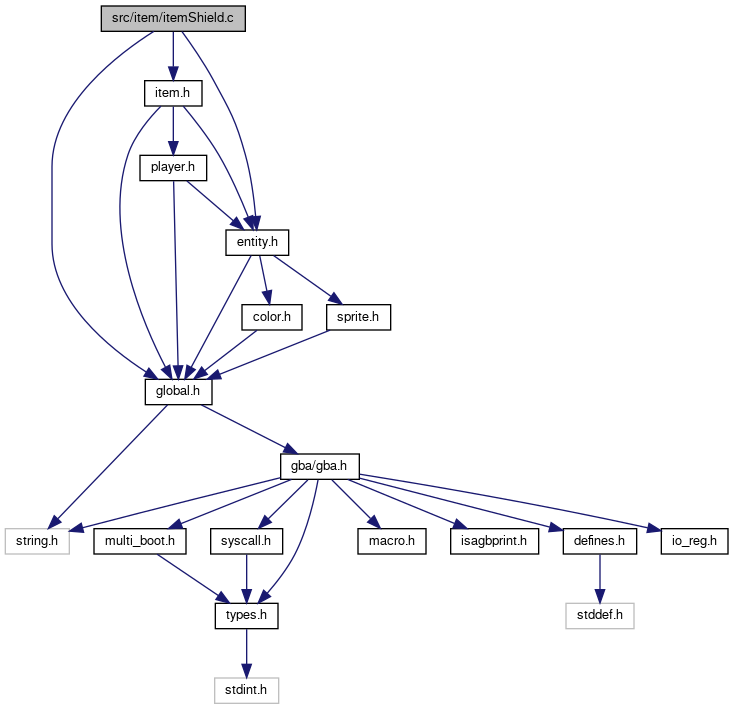
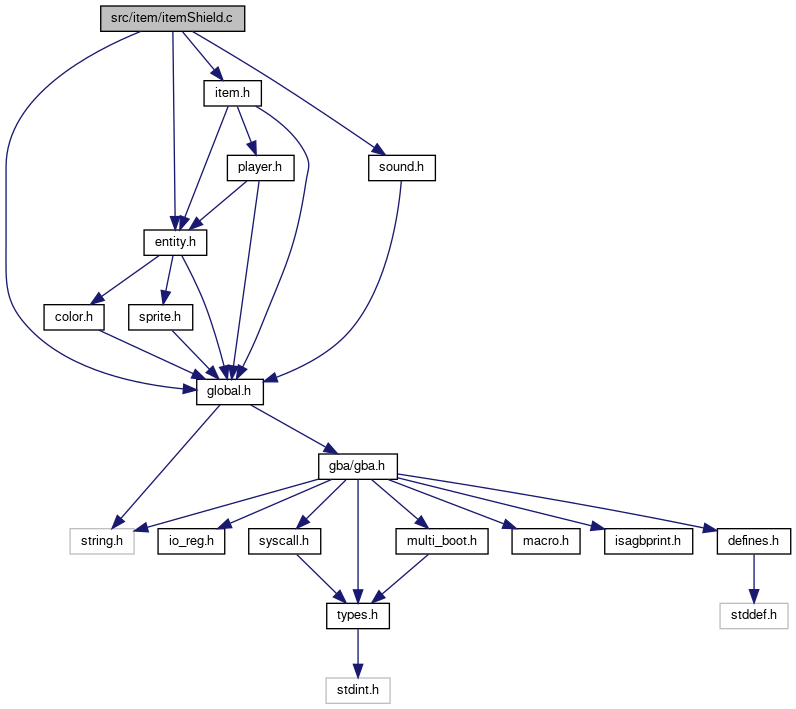
deploy: e394539e057b5704c1d08c0f4c07161096da6992

diff --git a/html/dir_000005_000000.html b/html/dir_000005_000000.html
@@ -74,7 +74,7 @@ $(function() {
 </div>
 </div><!-- top -->
 <div class="contents">
-<h3>item &rarr; include Relation</h3><table class="dirtab"><tr class="dirtab"><th class="dirtab">File in src/item</th><th class="dirtab">Includes file in include</th></tr><tr class="dirtab"><td class="dirtab"><a class="el" href="itemBomb_8c.html">itemBomb.c</a></td><td class="dirtab"><a class="el" href="coord_8h.html">coord.h</a></td></tr><tr class="dirtab"><td class="dirtab"><a class="el" href="itemBomb_8c.html">itemBomb.c</a></td><td class="dirtab"><a class="el" href="functions_8h.html">functions.h</a></td></tr><tr class="dirtab"><td class="dirtab"><a class="el" href="itemBomb_8c.html">itemBomb.c</a></td><td class="dirtab"><a class="el" href="item_8h.html">item.h</a></td></tr><tr class="dirtab"><td class="dirtab"><a class="el" href="itemBomb_8c.html">itemBomb.c</a></td><td class="dirtab"><a class="el" href="sound_8h.html">sound.h</a></td></tr><tr class="dirtab"><td class="dirtab"><a class="el" href="itemBoomerang_8c.html">itemBoomerang.c</a></td><td class="dirtab"><a class="el" href="functions_8h.html">functions.h</a></td></tr><tr class="dirtab"><td class="dirtab"><a class="el" href="itemBoomerang_8c.html">itemBoomerang.c</a></td><td class="dirtab"><a class="el" href="item_8h.html">item.h</a></td></tr><tr class="dirtab"><td class="dirtab"><a class="el" href="itemBow_8c.html">itemBow.c</a></td><td class="dirtab"><a class="el" href="functions_8h.html">functions.h</a></td></tr><tr class="dirtab"><td class="dirtab"><a class="el" href="itemBow_8c.html">itemBow.c</a></td><td class="dirtab"><a class="el" href="item_8h.html">item.h</a></td></tr><tr class="dirtab"><td class="dirtab"><a class="el" href="itemBow_8c.html">itemBow.c</a></td><td class="dirtab"><a class="el" href="save_8h.html">save.h</a></td></tr><tr class="dirtab"><td class="dirtab"><a class="el" href="itemDebug_8c.html">itemDebug.c</a></td><td class="dirtab"><a class="el" href="item_8h.html">item.h</a></td></tr><tr class="dirtab"><td class="dirtab"><a class="el" href="itemGustJar_8c.html">itemGustJar.c</a></td><td class="dirtab"><a class="el" href="entity_8h.html">entity.h</a></td></tr><tr class="dirtab"><td class="dirtab"><a class="el" href="itemGustJar_8c.html">itemGustJar.c</a></td><td class="dirtab"><a class="el" href="functions_8h.html">functions.h</a></td></tr><tr class="dirtab"><td class="dirtab"><a class="el" href="itemGustJar_8c.html">itemGustJar.c</a></td><td class="dirtab"><a class="el" href="global_8h.html">global.h</a></td></tr><tr class="dirtab"><td class="dirtab"><a class="el" href="itemGustJar_8c.html">itemGustJar.c</a></td><td class="dirtab"><a class="el" href="item_8h.html">item.h</a></td></tr><tr class="dirtab"><td class="dirtab"><a class="el" href="itemJarEmpty_8c.html">itemJarEmpty.c</a></td><td class="dirtab"><a class="el" href="functions_8h.html">functions.h</a></td></tr><tr class="dirtab"><td class="dirtab"><a class="el" href="itemJarEmpty_8c.html">itemJarEmpty.c</a></td><td class="dirtab"><a class="el" href="item_8h.html">item.h</a></td></tr><tr class="dirtab"><td class="dirtab"><a class="el" href="itemJarEmpty_8c.html">itemJarEmpty.c</a></td><td class="dirtab"><a class="el" href="save_8h.html">save.h</a></td></tr><tr class="dirtab"><td class="dirtab"><a class="el" href="itemLantern_8c.html">itemLantern.c</a></td><td class="dirtab"><a class="el" href="functions_8h.html">functions.h</a></td></tr><tr class="dirtab"><td class="dirtab"><a class="el" href="itemLantern_8c.html">itemLantern.c</a></td><td class="dirtab"><a class="el" href="game_8h.html">game.h</a></td></tr><tr class="dirtab"><td class="dirtab"><a class="el" href="itemLantern_8c.html">itemLantern.c</a></td><td class="dirtab"><a class="el" href="item_8h.html">item.h</a></td></tr><tr class="dirtab"><td class="dirtab"><a class="el" href="itemLantern_8c.html">itemLantern.c</a></td><td class="dirtab"><a class="el" href="object_8h.html">object.h</a></td></tr><tr class="dirtab"><td class="dirtab"><a class="el" href="itemLantern_8c.html">itemLantern.c</a></td><td class="dirtab"><a class="el" href="sound_8h.html">sound.h</a></td></tr><tr class="dirtab"><td class="dirtab"><a class="el" href="itemMoleMitts_8c.html">itemMoleMitts.c</a></td><td class="dirtab"><a class="el" href="functions_8h.html">functions.h</a></td></tr><tr class="dirtab"><td class="dirtab"><a class="el" href="itemMoleMitts_8c.html">itemMoleMitts.c</a></td><td class="dirtab"><a class="el" href="item_8h.html">item.h</a></td></tr><tr class="dirtab"><td class="dirtab"><a class="el" href="itemMoleMitts_8c.html">itemMoleMitts.c</a></td><td class="dirtab"><a class="el" href="sound_8h.html">sound.h</a></td></tr><tr class="dirtab"><td class="dirtab"><a class="el" href="itemOcarina_8c.html">itemOcarina.c</a></td><td class="dirtab"><a class="el" href="functions_8h.html">functions.h</a></td></tr><tr class="dirtab"><td class="dirtab"><a class="el" href="itemOcarina_8c.html">itemOcarina.c</a></td><td class="dirtab"><a class="el" href="item_8h.html">item.h</a></td></tr><tr class="dirtab"><td class="dirtab"><a class="el" href="itemOcarina_8c.html">itemOcarina.c</a></td><td class="dirtab"><a class="el" href="sound_8h.html">sound.h</a></td></tr><tr class="dirtab"><td class="dirtab"><a class="el" href="itemPacciCane_8c.html">itemPacciCane.c</a></td><td class="dirtab"><a class="el" href="entity_8h.html">entity.h</a></td></tr><tr class="dirtab"><td class="dirtab"><a class="el" href="itemPacciCane_8c.html">itemPacciCane.c</a></td><td class="dirtab"><a class="el" href="global_8h.html">global.h</a></td></tr><tr class="dirtab"><td class="dirtab"><a class="el" href="itemPacciCane_8c.html">itemPacciCane.c</a></td><td class="dirtab"><a class="el" href="item_8h.html">item.h</a></td></tr><tr class="dirtab"><td class="dirtab"><a class="el" href="itemPegasusBoots_8c.html">itemPegasusBoots.c</a></td><td class="dirtab"><a class="el" href="asm_8h.html">asm.h</a></td></tr><tr class="dirtab"><td class="dirtab"><a class="el" href="itemPegasusBoots_8c.html">itemPegasusBoots.c</a></td><td class="dirtab"><a class="el" href="effects_8h.html">effects.h</a></td></tr><tr class="dirtab"><td class="dirtab"><a class="el" href="itemPegasusBoots_8c.html">itemPegasusBoots.c</a></td><td class="dirtab"><a class="el" href="functions_8h.html">functions.h</a></td></tr><tr class="dirtab"><td class="dirtab"><a class="el" href="itemPegasusBoots_8c.html">itemPegasusBoots.c</a></td><td class="dirtab"><a class="el" href="item_8h.html">item.h</a></td></tr><tr class="dirtab"><td class="dirtab"><a class="el" href="itemPegasusBoots_8c.html">itemPegasusBoots.c</a></td><td class="dirtab"><a class="el" href="sound_8h.html">sound.h</a></td></tr><tr class="dirtab"><td class="dirtab"><a class="el" href="itemRocsCape_8c.html">itemRocsCape.c</a></td><td class="dirtab"><a class="el" href="functions_8h.html">functions.h</a></td></tr><tr class="dirtab"><td class="dirtab"><a class="el" href="itemRocsCape_8c.html">itemRocsCape.c</a></td><td class="dirtab"><a class="el" href="item_8h.html">item.h</a></td></tr><tr class="dirtab"><td class="dirtab"><a class="el" href="itemRocsCape_8c.html">itemRocsCape.c</a></td><td class="dirtab"><a class="el" href="sound_8h.html">sound.h</a></td></tr><tr class="dirtab"><td class="dirtab"><a class="el" href="itemShield_8c.html">itemShield.c</a></td><td class="dirtab"><a class="el" href="entity_8h.html">entity.h</a></td></tr><tr class="dirtab"><td class="dirtab"><a class="el" href="itemShield_8c.html">itemShield.c</a></td><td class="dirtab"><a class="el" href="global_8h.html">global.h</a></td></tr><tr class="dirtab"><td class="dirtab"><a class="el" href="itemShield_8c.html">itemShield.c</a></td><td class="dirtab"><a class="el" href="item_8h.html">item.h</a></td></tr><tr class="dirtab"><td class="dirtab"><a class="el" href="itemSword_8c.html">itemSword.c</a></td><td class="dirtab"><a class="el" href="functions_8h.html">functions.h</a></td></tr><tr class="dirtab"><td class="dirtab"><a class="el" href="itemSword_8c.html">itemSword.c</a></td><td class="dirtab"><a class="el" href="item_8h.html">item.h</a></td></tr><tr class="dirtab"><td class="dirtab"><a class="el" href="itemSword_8c.html">itemSword.c</a></td><td class="dirtab"><a class="el" href="object_8h.html">object.h</a></td></tr><tr class="dirtab"><td class="dirtab"><a class="el" href="itemSword_8c.html">itemSword.c</a></td><td class="dirtab"><a class="el" href="sound_8h.html">sound.h</a></td></tr><tr class="dirtab"><td class="dirtab"><a class="el" href="itemTryPickupObject_8c.html">itemTryPickupObject.c</a></td><td class="dirtab"><a class="el" href="functions_8h.html">functions.h</a></td></tr><tr class="dirtab"><td class="dirtab"><a class="el" href="itemTryPickupObject_8c.html">itemTryPickupObject.c</a></td><td class="dirtab"><a class="el" href="item_8h.html">item.h</a></td></tr></table></div><!-- contents -->
+<h3>item &rarr; include Relation</h3><table class="dirtab"><tr class="dirtab"><th class="dirtab">File in src/item</th><th class="dirtab">Includes file in include</th></tr><tr class="dirtab"><td class="dirtab"><a class="el" href="itemBomb_8c.html">itemBomb.c</a></td><td class="dirtab"><a class="el" href="coord_8h.html">coord.h</a></td></tr><tr class="dirtab"><td class="dirtab"><a class="el" href="itemBomb_8c.html">itemBomb.c</a></td><td class="dirtab"><a class="el" href="functions_8h.html">functions.h</a></td></tr><tr class="dirtab"><td class="dirtab"><a class="el" href="itemBomb_8c.html">itemBomb.c</a></td><td class="dirtab"><a class="el" href="item_8h.html">item.h</a></td></tr><tr class="dirtab"><td class="dirtab"><a class="el" href="itemBomb_8c.html">itemBomb.c</a></td><td class="dirtab"><a class="el" href="sound_8h.html">sound.h</a></td></tr><tr class="dirtab"><td class="dirtab"><a class="el" href="itemBoomerang_8c.html">itemBoomerang.c</a></td><td class="dirtab"><a class="el" href="functions_8h.html">functions.h</a></td></tr><tr class="dirtab"><td class="dirtab"><a class="el" href="itemBoomerang_8c.html">itemBoomerang.c</a></td><td class="dirtab"><a class="el" href="item_8h.html">item.h</a></td></tr><tr class="dirtab"><td class="dirtab"><a class="el" href="itemBow_8c.html">itemBow.c</a></td><td class="dirtab"><a class="el" href="functions_8h.html">functions.h</a></td></tr><tr class="dirtab"><td class="dirtab"><a class="el" href="itemBow_8c.html">itemBow.c</a></td><td class="dirtab"><a class="el" href="item_8h.html">item.h</a></td></tr><tr class="dirtab"><td class="dirtab"><a class="el" href="itemBow_8c.html">itemBow.c</a></td><td class="dirtab"><a class="el" href="save_8h.html">save.h</a></td></tr><tr class="dirtab"><td class="dirtab"><a class="el" href="itemDebug_8c.html">itemDebug.c</a></td><td class="dirtab"><a class="el" href="item_8h.html">item.h</a></td></tr><tr class="dirtab"><td class="dirtab"><a class="el" href="itemGustJar_8c.html">itemGustJar.c</a></td><td class="dirtab"><a class="el" href="entity_8h.html">entity.h</a></td></tr><tr class="dirtab"><td class="dirtab"><a class="el" href="itemGustJar_8c.html">itemGustJar.c</a></td><td class="dirtab"><a class="el" href="functions_8h.html">functions.h</a></td></tr><tr class="dirtab"><td class="dirtab"><a class="el" href="itemGustJar_8c.html">itemGustJar.c</a></td><td class="dirtab"><a class="el" href="global_8h.html">global.h</a></td></tr><tr class="dirtab"><td class="dirtab"><a class="el" href="itemGustJar_8c.html">itemGustJar.c</a></td><td class="dirtab"><a class="el" href="item_8h.html">item.h</a></td></tr><tr class="dirtab"><td class="dirtab"><a class="el" href="itemJarEmpty_8c.html">itemJarEmpty.c</a></td><td class="dirtab"><a class="el" href="functions_8h.html">functions.h</a></td></tr><tr class="dirtab"><td class="dirtab"><a class="el" href="itemJarEmpty_8c.html">itemJarEmpty.c</a></td><td class="dirtab"><a class="el" href="item_8h.html">item.h</a></td></tr><tr class="dirtab"><td class="dirtab"><a class="el" href="itemJarEmpty_8c.html">itemJarEmpty.c</a></td><td class="dirtab"><a class="el" href="save_8h.html">save.h</a></td></tr><tr class="dirtab"><td class="dirtab"><a class="el" href="itemLantern_8c.html">itemLantern.c</a></td><td class="dirtab"><a class="el" href="functions_8h.html">functions.h</a></td></tr><tr class="dirtab"><td class="dirtab"><a class="el" href="itemLantern_8c.html">itemLantern.c</a></td><td class="dirtab"><a class="el" href="game_8h.html">game.h</a></td></tr><tr class="dirtab"><td class="dirtab"><a class="el" href="itemLantern_8c.html">itemLantern.c</a></td><td class="dirtab"><a class="el" href="item_8h.html">item.h</a></td></tr><tr class="dirtab"><td class="dirtab"><a class="el" href="itemLantern_8c.html">itemLantern.c</a></td><td class="dirtab"><a class="el" href="object_8h.html">object.h</a></td></tr><tr class="dirtab"><td class="dirtab"><a class="el" href="itemLantern_8c.html">itemLantern.c</a></td><td class="dirtab"><a class="el" href="sound_8h.html">sound.h</a></td></tr><tr class="dirtab"><td class="dirtab"><a class="el" href="itemMoleMitts_8c.html">itemMoleMitts.c</a></td><td class="dirtab"><a class="el" href="functions_8h.html">functions.h</a></td></tr><tr class="dirtab"><td class="dirtab"><a class="el" href="itemMoleMitts_8c.html">itemMoleMitts.c</a></td><td class="dirtab"><a class="el" href="item_8h.html">item.h</a></td></tr><tr class="dirtab"><td class="dirtab"><a class="el" href="itemMoleMitts_8c.html">itemMoleMitts.c</a></td><td class="dirtab"><a class="el" href="sound_8h.html">sound.h</a></td></tr><tr class="dirtab"><td class="dirtab"><a class="el" href="itemOcarina_8c.html">itemOcarina.c</a></td><td class="dirtab"><a class="el" href="functions_8h.html">functions.h</a></td></tr><tr class="dirtab"><td class="dirtab"><a class="el" href="itemOcarina_8c.html">itemOcarina.c</a></td><td class="dirtab"><a class="el" href="item_8h.html">item.h</a></td></tr><tr class="dirtab"><td class="dirtab"><a class="el" href="itemOcarina_8c.html">itemOcarina.c</a></td><td class="dirtab"><a class="el" href="sound_8h.html">sound.h</a></td></tr><tr class="dirtab"><td class="dirtab"><a class="el" href="itemPacciCane_8c.html">itemPacciCane.c</a></td><td class="dirtab"><a class="el" href="entity_8h.html">entity.h</a></td></tr><tr class="dirtab"><td class="dirtab"><a class="el" href="itemPacciCane_8c.html">itemPacciCane.c</a></td><td class="dirtab"><a class="el" href="global_8h.html">global.h</a></td></tr><tr class="dirtab"><td class="dirtab"><a class="el" href="itemPacciCane_8c.html">itemPacciCane.c</a></td><td class="dirtab"><a class="el" href="item_8h.html">item.h</a></td></tr><tr class="dirtab"><td class="dirtab"><a class="el" href="itemPegasusBoots_8c.html">itemPegasusBoots.c</a></td><td class="dirtab"><a class="el" href="asm_8h.html">asm.h</a></td></tr><tr class="dirtab"><td class="dirtab"><a class="el" href="itemPegasusBoots_8c.html">itemPegasusBoots.c</a></td><td class="dirtab"><a class="el" href="effects_8h.html">effects.h</a></td></tr><tr class="dirtab"><td class="dirtab"><a class="el" href="itemPegasusBoots_8c.html">itemPegasusBoots.c</a></td><td class="dirtab"><a class="el" href="functions_8h.html">functions.h</a></td></tr><tr class="dirtab"><td class="dirtab"><a class="el" href="itemPegasusBoots_8c.html">itemPegasusBoots.c</a></td><td class="dirtab"><a class="el" href="item_8h.html">item.h</a></td></tr><tr class="dirtab"><td class="dirtab"><a class="el" href="itemPegasusBoots_8c.html">itemPegasusBoots.c</a></td><td class="dirtab"><a class="el" href="sound_8h.html">sound.h</a></td></tr><tr class="dirtab"><td class="dirtab"><a class="el" href="itemRocsCape_8c.html">itemRocsCape.c</a></td><td class="dirtab"><a class="el" href="functions_8h.html">functions.h</a></td></tr><tr class="dirtab"><td class="dirtab"><a class="el" href="itemRocsCape_8c.html">itemRocsCape.c</a></td><td class="dirtab"><a class="el" href="item_8h.html">item.h</a></td></tr><tr class="dirtab"><td class="dirtab"><a class="el" href="itemRocsCape_8c.html">itemRocsCape.c</a></td><td class="dirtab"><a class="el" href="sound_8h.html">sound.h</a></td></tr><tr class="dirtab"><td class="dirtab"><a class="el" href="itemShield_8c.html">itemShield.c</a></td><td class="dirtab"><a class="el" href="entity_8h.html">entity.h</a></td></tr><tr class="dirtab"><td class="dirtab"><a class="el" href="itemShield_8c.html">itemShield.c</a></td><td class="dirtab"><a class="el" href="global_8h.html">global.h</a></td></tr><tr class="dirtab"><td class="dirtab"><a class="el" href="itemShield_8c.html">itemShield.c</a></td><td class="dirtab"><a class="el" href="item_8h.html">item.h</a></td></tr><tr class="dirtab"><td class="dirtab"><a class="el" href="itemShield_8c.html">itemShield.c</a></td><td class="dirtab"><a class="el" href="sound_8h.html">sound.h</a></td></tr><tr class="dirtab"><td class="dirtab"><a class="el" href="itemSword_8c.html">itemSword.c</a></td><td class="dirtab"><a class="el" href="functions_8h.html">functions.h</a></td></tr><tr class="dirtab"><td class="dirtab"><a class="el" href="itemSword_8c.html">itemSword.c</a></td><td class="dirtab"><a class="el" href="item_8h.html">item.h</a></td></tr><tr class="dirtab"><td class="dirtab"><a class="el" href="itemSword_8c.html">itemSword.c</a></td><td class="dirtab"><a class="el" href="object_8h.html">object.h</a></td></tr><tr class="dirtab"><td class="dirtab"><a class="el" href="itemSword_8c.html">itemSword.c</a></td><td class="dirtab"><a class="el" href="sound_8h.html">sound.h</a></td></tr><tr class="dirtab"><td class="dirtab"><a class="el" href="itemTryPickupObject_8c.html">itemTryPickupObject.c</a></td><td class="dirtab"><a class="el" href="functions_8h.html">functions.h</a></td></tr><tr class="dirtab"><td class="dirtab"><a class="el" href="itemTryPickupObject_8c.html">itemTryPickupObject.c</a></td><td class="dirtab"><a class="el" href="item_8h.html">item.h</a></td></tr></table></div><!-- contents -->
 <!-- start footer part -->
 <hr class="footer"/><address class="footer"><small>
 Generated by&#160;<a href="https://www.doxygen.org/index.html"><img class="footer" src="doxygen.svg" width="104" height="31" alt="doxygen"/></a> 1.9.1

diff --git a/html/itemShield_8c.html b/html/itemShield_8c.html
@@ -84,6 +84,7 @@ $(function() {
 <div class="textblock"><code>#include &quot;<a class="el" href="global_8h_source.html">global.h</a>&quot;</code><br />
 <code>#include &quot;<a class="el" href="entity_8h_source.html">entity.h</a>&quot;</code><br />
 <code>#include &quot;<a class="el" href="item_8h_source.html">item.h</a>&quot;</code><br />
+<code>#include &quot;<a class="el" href="sound_8h_source.html">sound.h</a>&quot;</code><br />
 </div><div class="textblock"><div id="dynsection-0" onclick="return toggleVisibility(this)" class="dynheader closed" style="cursor:pointer;">
   <img id="dynsection-0-trigger" src="closed.png" alt="+"/> Include dependency graph for itemShield.c:</div>
 <div id="dynsection-0-summary" class="dynsummary" style="display:block;">
@@ -92,23 +93,24 @@ $(function() {
 <div class="center"><img src="itemShield_8c__incl.png" border="0" usemap="#asrc_2item_2itemShield_8c" alt=""/></div>
 <map name="asrc_2item_2itemShield_8c" id="asrc_2item_2itemShield_8c">
 <area shape="rect" title=" " alt="" coords="101,5,245,32"/>
-<area shape="rect" href="global_8h.html" title=" " alt="" coords="145,379,212,405"/>
-<area shape="rect" href="entity_8h.html" title=" " alt="" coords="226,229,289,256"/>
-<area shape="rect" href="item_8h.html" title=" " alt="" coords="145,80,202,107"/>
-<area shape="rect" href="gba_8h.html" title=" " alt="" coords="281,453,359,480"/>
-<area shape="rect" title=" " alt="" coords="5,528,69,555"/>
-<area shape="rect" href="defines_8h.html" title=" " alt="" coords="563,528,637,555"/>
-<area shape="rect" href="io__reg_8h.html" title=" " alt="" coords="661,528,728,555"/>
-<area shape="rect" href="types_8h.html" title=" " alt="" coords="215,603,278,629"/>
-<area shape="rect" href="multi__boot_8h.html" title=" " alt="" coords="94,528,186,555"/>
-<area shape="rect" href="syscall_8h.html" title=" " alt="" coords="211,528,283,555"/>
-<area shape="rect" href="macro_8h.html" title=" " alt="" coords="358,528,426,555"/>
-<area shape="rect" href="isagbprint_8h.html" title=" " alt="" coords="451,528,539,555"/>
-<area shape="rect" title=" " alt="" coords="566,603,634,629"/>
-<area shape="rect" title=" " alt="" coords="215,677,279,704"/>
-<area shape="rect" href="color_8h.html" title=" " alt="" coords="242,304,302,331"/>
-<area shape="rect" href="sprite_8h.html" title=" " alt="" coords="327,304,391,331"/>
-<area shape="rect" href="player_8h.html" title=" " alt="" coords="140,155,207,181"/>
+<area shape="rect" href="global_8h.html" title=" " alt="" coords="197,379,263,405"/>
+<area shape="rect" href="entity_8h.html" title=" " alt="" coords="144,229,207,256"/>
+<area shape="rect" href="item_8h.html" title=" " alt="" coords="204,80,261,107"/>
+<area shape="rect" href="sound_8h.html" title=" " alt="" coords="369,155,435,181"/>
+<area shape="rect" href="gba_8h.html" title=" " alt="" coords="319,453,397,480"/>
+<area shape="rect" title=" " alt="" coords="70,528,134,555"/>
+<area shape="rect" href="defines_8h.html" title=" " alt="" coords="717,528,791,555"/>
+<area shape="rect" href="io__reg_8h.html" title=" " alt="" coords="158,528,225,555"/>
+<area shape="rect" href="types_8h.html" title=" " alt="" coords="327,603,389,629"/>
+<area shape="rect" href="multi__boot_8h.html" title=" " alt="" coords="396,528,488,555"/>
+<area shape="rect" href="syscall_8h.html" title=" " alt="" coords="249,528,321,555"/>
+<area shape="rect" href="macro_8h.html" title=" " alt="" coords="512,528,580,555"/>
+<area shape="rect" href="isagbprint_8h.html" title=" " alt="" coords="605,528,693,555"/>
+<area shape="rect" title=" " alt="" coords="720,603,788,629"/>
+<area shape="rect" title=" " alt="" coords="326,677,390,704"/>
+<area shape="rect" href="color_8h.html" title=" " alt="" coords="44,304,104,331"/>
+<area shape="rect" href="sprite_8h.html" title=" " alt="" coords="129,304,193,331"/>
+<area shape="rect" href="player_8h.html" title=" " alt="" coords="227,155,294,181"/>
 </map>
 </div>
 </div><table class="memberdecls">

diff --git a/html/item_8h_source.html b/html/item_8h_source.html
@@ -359,7 +359,7 @@ $(function() {
 <div class="ttc" id="aitem_8h_html_abdd012c7bae6b59577243aa5a080a000"><div class="ttname"><a href="item_8h.html#abdd012c7bae6b59577243aa5a080a000">ItemDebug</a></div><div class="ttdeci">void ItemDebug(ItemBehavior *, u32)</div><div class="ttdef"><b>Definition:</b> itemDebug.c:6</div></div>
 <div class="ttc" id="aitem_8h_html_ac5cbd1c5e71b27a5f0c32c19cc8cf739"><div class="ttname"><a href="item_8h.html#ac5cbd1c5e71b27a5f0c32c19cc8cf739">ItemPegasusBoots</a></div><div class="ttdeci">void ItemPegasusBoots(ItemBehavior *, u32)</div><div class="ttdef"><b>Definition:</b> itemPegasusBoots.c:11</div></div>
 <div class="ttc" id="aitem_8h_html_ad5531f30a3c8ea1bd261098f9a015399"><div class="ttname"><a href="item_8h.html#ad5531f30a3c8ea1bd261098f9a015399">ItemOcarina</a></div><div class="ttdeci">void ItemOcarina(ItemBehavior *, u32)</div><div class="ttdef"><b>Definition:</b> itemOcarina.c:11</div></div>
-<div class="ttc" id="aitem_8h_html_ad67fb8824eca0fa4358c3716a82030bb"><div class="ttname"><a href="item_8h.html#ad67fb8824eca0fa4358c3716a82030bb">ItemShield</a></div><div class="ttdeci">void ItemShield(ItemBehavior *, u32)</div><div class="ttdef"><b>Definition:</b> itemShield.c:16</div></div>
+<div class="ttc" id="aitem_8h_html_ad67fb8824eca0fa4358c3716a82030bb"><div class="ttname"><a href="item_8h.html#ad67fb8824eca0fa4358c3716a82030bb">ItemShield</a></div><div class="ttdeci">void ItemShield(ItemBehavior *, u32)</div><div class="ttdef"><b>Definition:</b> itemShield.c:17</div></div>
 <div class="ttc" id="aitem_8h_html_ad9cbc22cfc980cf7d673877b90a17f2e"><div class="ttname"><a href="item_8h.html#ad9cbc22cfc980cf7d673877b90a17f2e">ItemMoleMitts</a></div><div class="ttdeci">void ItemMoleMitts(ItemBehavior *, u32)</div><div class="ttdef"><b>Definition:</b> itemMoleMitts.c:15</div></div>
 <div class="ttc" id="aitem_8h_html_ae31157d632c63de198d0a6139000969f"><div class="ttname"><a href="item_8h.html#ae31157d632c63de198d0a6139000969f">ItemPacciCane</a></div><div class="ttdeci">void ItemPacciCane(ItemBehavior *, u32)</div><div class="ttdef"><b>Definition:</b> itemPacciCane.c:15</div></div>
 <div class="ttc" id="aitem_8h_html_af1d2ad10de4e06163c0ff2d098b1305c"><div class="ttname"><a href="item_8h.html#af1d2ad10de4e06163c0ff2d098b1305c">ItemGustJar</a></div><div class="ttdeci">void ItemGustJar(ItemBehavior *, u32)</div><div class="ttdef"><b>Definition:</b> itemGustJar.c:8</div></div>

diff --git a/html/item_8c.html b/html/item_8c.html
@@ -196,7 +196,7 @@ Variables</h2></td></tr>
 <div class="ttc" id="aitemPacciCane_8c_html_a0f7c0389b5e7a46d9d7b59613351f322"><div class="ttname"><a href="itemPacciCane_8c.html#a0f7c0389b5e7a46d9d7b59613351f322">ItemPacciCane</a></div><div class="ttdeci">void ItemPacciCane(ItemBehavior *beh, u32 arg1)</div><div class="ttdef"><b>Definition:</b> itemPacciCane.c:15</div></div>
 <div class="ttc" id="aitemPegasusBoots_8c_html_a8fb2cb83b2caf1b97dd5261a527c2f02"><div class="ttname"><a href="itemPegasusBoots_8c.html#a8fb2cb83b2caf1b97dd5261a527c2f02">ItemPegasusBoots</a></div><div class="ttdeci">void ItemPegasusBoots(ItemBehavior *this, u32 arg1)</div><div class="ttdef"><b>Definition:</b> itemPegasusBoots.c:11</div></div>
 <div class="ttc" id="aitemRocsCape_8c_html_ab978d48e0832d9e636cf740f2e5b81a2"><div class="ttname"><a href="itemRocsCape_8c.html#ab978d48e0832d9e636cf740f2e5b81a2">ItemRocsCape</a></div><div class="ttdeci">asm non_matching itemRocsCape ItemRocsCape void ItemRocsCape(ItemBehavior *this, u32 arg1)) void sub_08076758(ItemBehavior *this</div></div>
-<div class="ttc" id="aitemShield_8c_html_a65891633cc96568c23ab931127a39d14"><div class="ttname"><a href="itemShield_8c.html#a65891633cc96568c23ab931127a39d14">ItemShield</a></div><div class="ttdeci">void ItemShield(ItemBehavior *beh, u32 arg1)</div><div class="ttdef"><b>Definition:</b> itemShield.c:16</div></div>
+<div class="ttc" id="aitemShield_8c_html_a65891633cc96568c23ab931127a39d14"><div class="ttname"><a href="itemShield_8c.html#a65891633cc96568c23ab931127a39d14">ItemShield</a></div><div class="ttdeci">void ItemShield(ItemBehavior *beh, u32 arg1)</div><div class="ttdef"><b>Definition:</b> itemShield.c:17</div></div>
 <div class="ttc" id="aitemSword_8c_html_afbf94967e1f0e9f26aeb94566ab2aa0d"><div class="ttname"><a href="itemSword_8c.html#afbf94967e1f0e9f26aeb94566ab2aa0d">ItemSword</a></div><div class="ttdeci">void ItemSword(ItemBehavior *this, u32 arg1)</div><div class="ttdef"><b>Definition:</b> itemSword.c:14</div></div>
 <div class="ttc" id="aitemTryPickupObject_8c_html_a7e10d83319d2a33a1a11d1600d461b95"><div class="ttname"><a href="itemTryPickupObject_8c.html#a7e10d83319d2a33a1a11d1600d461b95">ItemTryPickupObject</a></div><div class="ttdeci">void ItemTryPickupObject(ItemBehavior *this, u32 arg1)</div><div class="ttdef"><b>Definition:</b> itemTryPickupObject.c:8</div></div>
 </div><!-- fragment -->

diff --git a/html/dir_68267d1309a1af8e8297ef4c3efbcdba.html b/html/dir_68267d1309a1af8e8297ef4c3efbcdba.html
@@ -91,7 +91,7 @@ $(function() {
 <area shape="rect" href="dir_16868fd6e7928a79ae3b5a53d6d6463f.html" title="gba" alt="" coords="616,27,688,75"/>
 <area shape="rect" href="dir_000004_000000.html" title="2" alt="" coords="464,134,472,149"/>
 <area shape="rect" href="dir_dc176e3d98aca08d5e74d18511208cd7.html" title="item" alt="" coords="520,27,592,75"/>
-<area shape="rect" href="dir_000005_000000.html" title="48" alt="" coords="461,114,475,128"/>
+<area shape="rect" href="dir_000005_000000.html" title="49" alt="" coords="461,114,475,128"/>
 <area shape="rect" href="dir_a20aec8ece1f55e78e59406218e639b0.html" title="manager" alt="" coords="424,27,496,75"/>
 <area shape="rect" href="dir_000006_000000.html" title="300" alt="" coords="429,103,450,118"/>
 <area shape="rect" href="dir_273b505eba68143ad73c3ab62a0a86cb.html" title="npc" alt="" coords="328,27,400,75"/>

diff --git a/html/dir_dc176e3d98aca08d5e74d18511208cd7.html b/html/dir_dc176e3d98aca08d5e74d18511208cd7.html
@@ -87,7 +87,7 @@ $(function() {
 <map name="adir__dc176e3d98aca08d5e74d18511208cd7__dep" id="adir__dc176e3d98aca08d5e74d18511208cd7__dep">
 <area shape="rect" href="dir_dc176e3d98aca08d5e74d18511208cd7.html" title="item" alt="" coords="27,52,99,100"/>
 <area shape="rect" href="dir_d44c64559bbebec7f509842c48db8b23.html" title="include" alt="" coords="27,148,99,196"/>
-<area shape="rect" href="dir_000005_000000.html" title="48" alt="" coords="64,122,78,137"/>
+<area shape="rect" href="dir_000005_000000.html" title="49" alt="" coords="64,122,78,137"/>
 <area shape="rect" href="dir_68267d1309a1af8e8297ef4c3efbcdba.html" title="src" alt="" coords="16,16,109,111"/>
 </map>
 </div>
